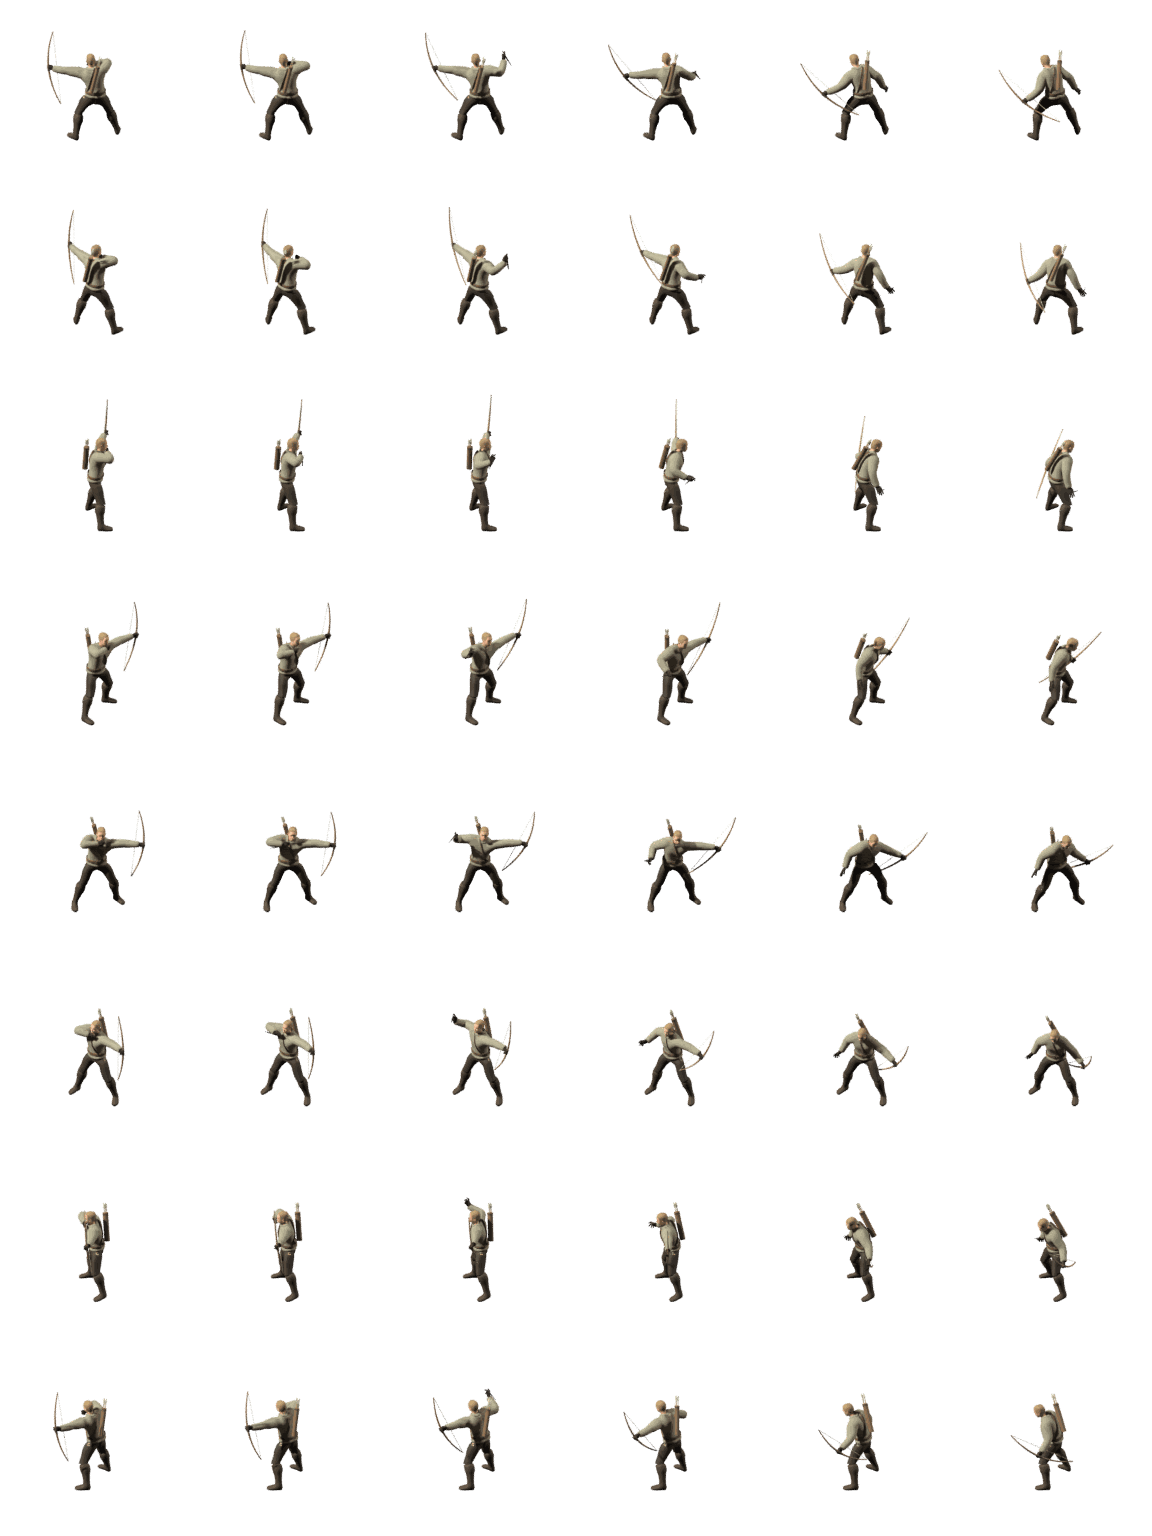
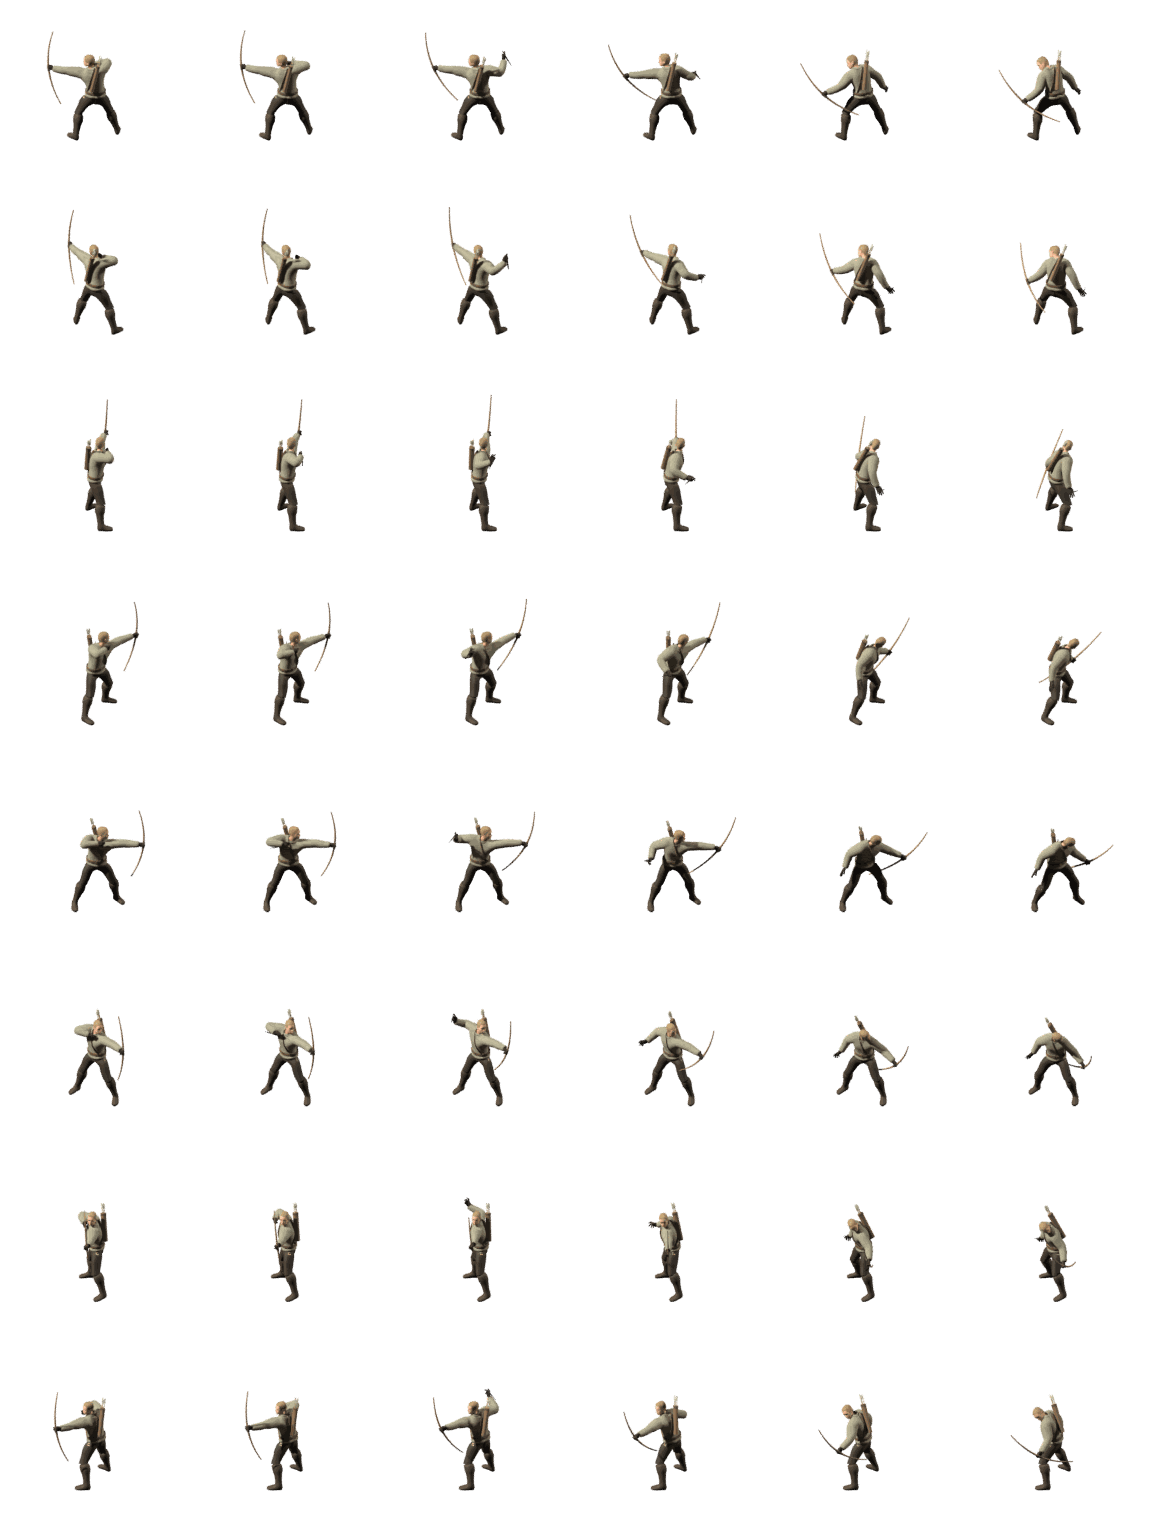
遊俠 sprite 修正：拿掉弓弦、瞄準時轉頭、箭只在拉弦時出現、箭袋貼背
Claude-Session: https://claude.ai/code/session_01WxhpBbZ5ozSPMynKrsCja5

diff --git a/tools/heroes3d/sprites.py b/tools/heroes3d/sprites.py
@@ -1,6 +1,6 @@
 # 用法: python3 -I sprites.py anim_name fbx_path nframes [dirs=all] [preview]
 import bpy,addon_utils,sys,math,os,json,time
-from mathutils import Vector,Matrix
+from mathutils import Vector,Matrix,Quaternion
 addon_utils.enable('bl_ext.user_default.mpfb', default_set=True)
 S='/tmp/claude-0/-home-claude/b1eaca21-4d49-5728-9ba6-a80e5d69cacd/scratchpad/mh'
 name,fbx,nf=sys.argv[1],sys.argv[2],int(sys.argv[3])
@@ -105,7 +105,9 @@ if BOW:
         nock=sum([W_@P_['mixamorig:RightHand'+n].head for n in ('Index2','Middle2','Ring2')],Vector())/3
         # 弦拉開的距離 = 右手到原本弦線的距離
         ab=tipB-tipT; t_=max(0,min(1,(nock-tipT).dot(ab)/ab.length_squared)); off=(nock-(tipT+ab*t_)).length
-        drawn=off>0.07 and not os.environ.get('NOARROW')
+        bn=(mw.to_3x3()@Vector((0,1,0))).normalized(); plane_d=abs((nock-grip).dot(bn))
+        if os.environ.get('DBGBOW'): print('BOWDBG',f,round(off,3),round(plane_d,3),round((nock-grip).length,3))
+        drawn=off>0.07 and plane_d<0.25 and (nock-grip).length<0.95 and not os.environ.get('NOARROW')
         strobj.hide_render=drawn; segA.hide_render=not drawn; segB.hide_render=not drawn; arrow.hide_render=not drawn
         for ch in arrow.children: ch.hide_render=not drawn
         rt=bpy.data.objects.get('root')
@@ -114,6 +116,32 @@ if BOW:
         if drawn:
             place(segA,tipT,nock); place(segB,nock,tipB)
             dirv=(grip-nock).normalized(); q=Vector((0,0,1)).rotation_difference(dirv); arrow.matrix_world=Matrix.LocRotScale(nock,q,None)
+        bpy.context.view_layer.update()
+# ---- 頭部瞄準（HEADAIM=權重）：頭頸轉向「頭→弓把」方向 ----
+HA=float(os.environ.get('HEADAIM','0') or 0)
+if HA>0 and bpy.data.objects.get('Bow'):
+    BOWO=bpy.data.objects['Bow']
+    _hb=rig.data.bones['mixamorig:Head']; FWD_L=(_hb.matrix_local.to_3x3().inverted()@(rig.matrix_world.to_3x3().inverted()@Vector((0,-1,0)))).normalized()
+    _pose5=pose_at
+    def pose_at(f):
+        _pose5(f)
+        W_=rig.matrix_world
+        for bn_,w in (('mixamorig:Neck',0.35*HA),('mixamorig:Head',0.8*HA)):
+            hp=rig.pose.bones['mixamorig:Head']; cur=((W_@hp.matrix).to_3x3()@FWD_L).normalized()
+            hpos=W_@hp.head; want=(BOWO.matrix_world.translation-hpos); want.z*=0.4; want.normalize()
+            q=cur.rotation_difference(want); ang=q.angle
+            if ang<1e-4: continue
+            q=Quaternion(q.axis,min(ang,math.radians(80))*w)
+            pb=rig.pose.bones[bn_]; Mw=W_@pb.matrix
+            R=Matrix.Translation(Mw.translation)@q.to_matrix().to_4x4()@Matrix.Translation(-Mw.translation)
+            pb.matrix=W_.inverted()@(R@Mw); bpy.context.view_layer.update()
+# ---- 不畫弓弦（NOSTRING=1）----
+if os.environ.get('NOSTRING'):
+    _pose4=pose_at
+    def pose_at(f):
+        _pose4(f)
+        for o_ in bpy.data.objects:
+            if o_.type=='MESH' and o_.data.materials and o_.data.materials[0] and o_.data.materials[0].name.startswith('bowstring'): o_.hide_render=True
         bpy.context.view_layer.update()
 # 渲染設定
 sc.render.engine='CYCLES'; sc.cycles.samples=int(os.environ.get('SAMPLES','16')); sc.cycles.use_denoising=True

diff --git a/tools/heroes3d/classes.py b/tools/heroes3d/classes.py
@@ -319,7 +319,12 @@ for w in C['weapons']:
         # 背後：右肩上方開口，斜向左下
         sp2=headw('mixamorig:Spine2'); nk=headw('mixamorig:Neck')
         back=Vector((0,1,0))   # 角色面向 -Y，背後是 +Y
-        cen=sp2.lerp(nk,0.15)+back*0.16+Vector((-0.05,0,0))
+        # 貼背：從胸口往背後打射線，找到布甲背面，箭袋中心離表面約一個箭袋半徑
+        from mathutils.bvhtree import BVHTree
+        dg=bpy.context.evaluated_depsgraph_get(); topo=[o for o in bpy.data.objects if 'fisherman' in o.name and o.type=='MESH'][0]
+        bv_=BVHTree.FromObject(topo,dg); tmw=topo.matrix_world; o0=sp2.lerp(nk,0.15)+Vector((-0.05,0,0))
+        far_=o0+back*0.5; loc_,_,_,_=bv_.ray_cast(tmw.inverted()@far_,(tmw.inverted().to_3x3()@(-back)).normalized(),0.6)
+        cen=((tmw@loc_) if loc_ else o0+back*0.12)+back*0.045
         axis=Vector((-0.45,0.15,1)).normalized()   # 往右上（角色右手 = -X）
         attach(q,'mixamorig:Spine2',basis(axis,back,cen))
         # 斜背帶：右肩 → 左腰，沿身體前方

diff --git a/public/assets/heroes3d/README.md b/public/assets/heroes3d/README.md
@@ -12,7 +12,7 @@
 | `mage/` | 灰袍老法師 | 三叉嵌晶杖 | idle walk run cast attack sweep cast2h area attack2h block hit death death_back |
 | `sorceress/` | 吉普賽風咒術師（女） | 短魔杖 | 同法師 |
 
-⚠ `ranger/` 已知動作中有穿模，之後會重做；先可當占位使用。
+`ranger/` 的長弓不畫弓弦（直弦在多個角度會切過身體）；拉弓時右手處會顯示箭，瞄準時頭會轉向弓的方向。
 
 ## 圖檔格式
 - 每個動作一張 PNG（256 色調色盤＋透明）：**列＝方向（8 列）、欄＝影格**。
